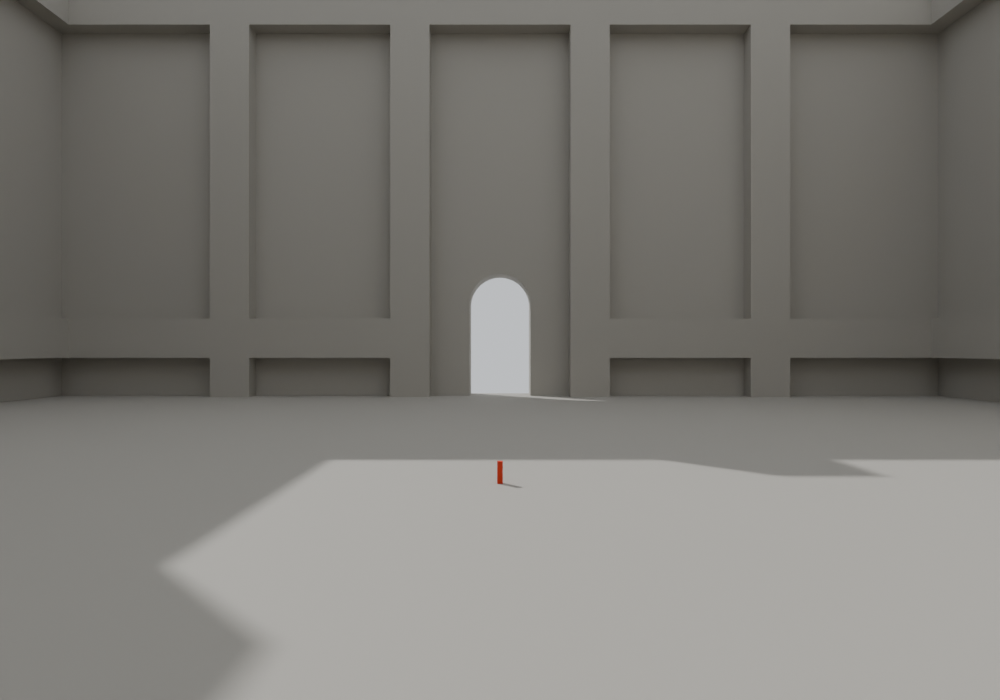
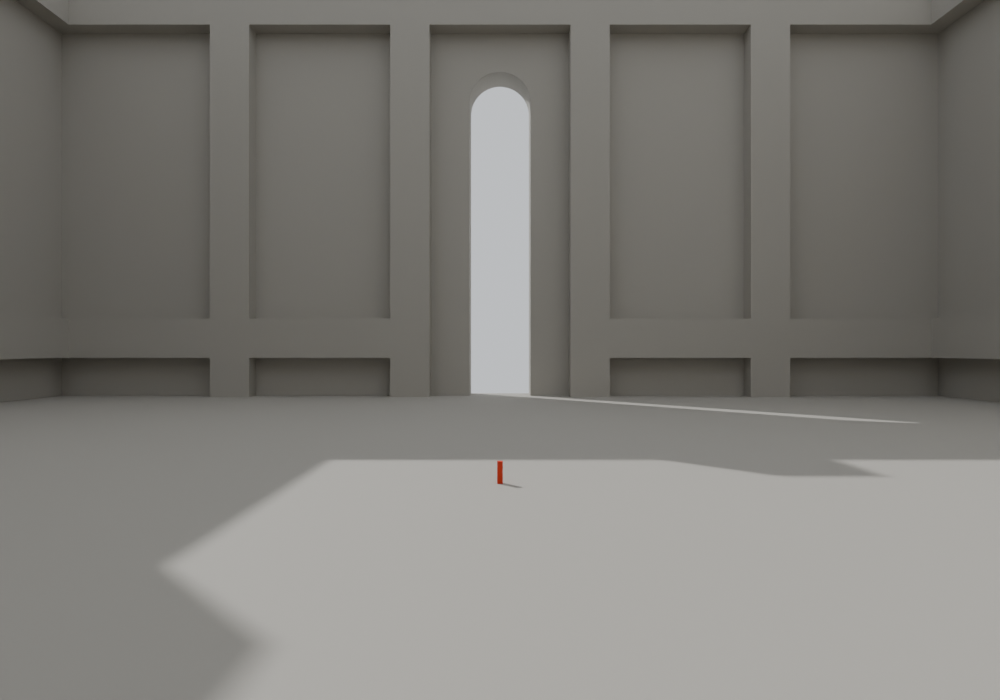
Raise arches: straight sides to 87 m, top at 95 m (10 m under the upper ledge)
Claude-Session: https://claude.ai/code/session_01SWXPy6War9Jf9BhkNrgaL1

Changed region(s): [[0.465, 0.12, 0.558, 0.42], [0.62, 0.57, 0.837, 0.6]]

diff --git a/Tools/models/grande_salle_blender.py b/Tools/models/grande_salle_blender.py
@@ -6,7 +6,7 @@ import bpy, bmesh
 
 W, H, T = 250.0, 125.0, 10.0
 COL, DEP, NCOL = 10.0, 5.0, 4         # colonnes : 10 m le long du mur, 5 m de saillie, 4 par mur, aucune dans un angle, à écart égal          # largeur, hauteur, épaisseur des parois et du sol
-OW, OH, OA = 16.0, 24.0, 8.0           # ouvertures : 16 m de large, côtés droits sur 24 m, puis demi-cercle (rayon 8 m, sommet à 32 m)
+OW, OH, OA = 16.0, 77.0, 8.0           # ouvertures : 16 m de large, côtés droits sur 77 m, puis demi-cercle (rayon 8 m) ; sommet à 95 m, 10 m sous la corniche haute (105 m)
 ARC_SEG = 32                          # nombre de segments de l'arrondi
 OUT = os.path.abspath(os.path.join(os.path.dirname(__file__), "..", "..", "Assets", "Export"))
 
